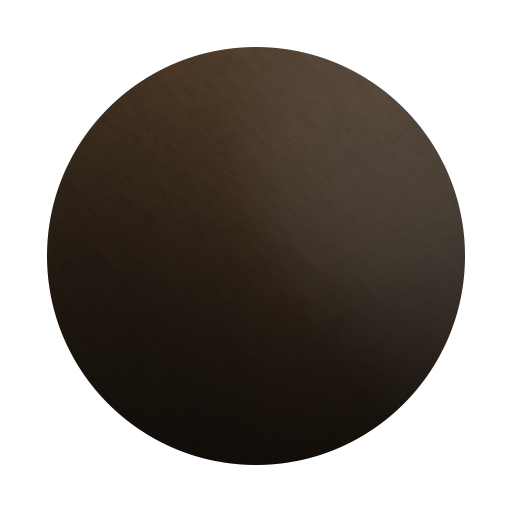
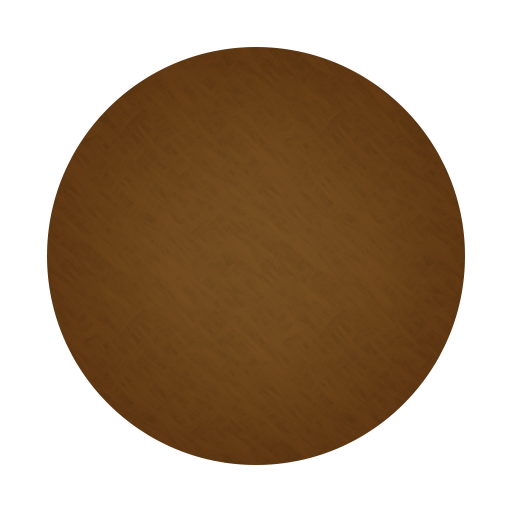
Menu eye candy.

diff --git a/SpaceMiner/Assets/MenuPlanet.cs b/SpaceMiner/Assets/MenuPlanet.cs
@@ -1,0 +1,18 @@
+using UnityEngine;
+using System.Collections;
+
+public class MenuPlanet : MonoBehaviour {
+
+	public float RotationStep = 0.2f;
+    Vector3 eulerAngles;
+
+    // Use this for initialization
+	void Start () {
+        eulerAngles = new Vector3(0f, 0f, RotationStep);
+	}
+	
+	// Update is called once per frame
+	void Update () {
+        transform.Rotate(eulerAngles);
+	}
+}
